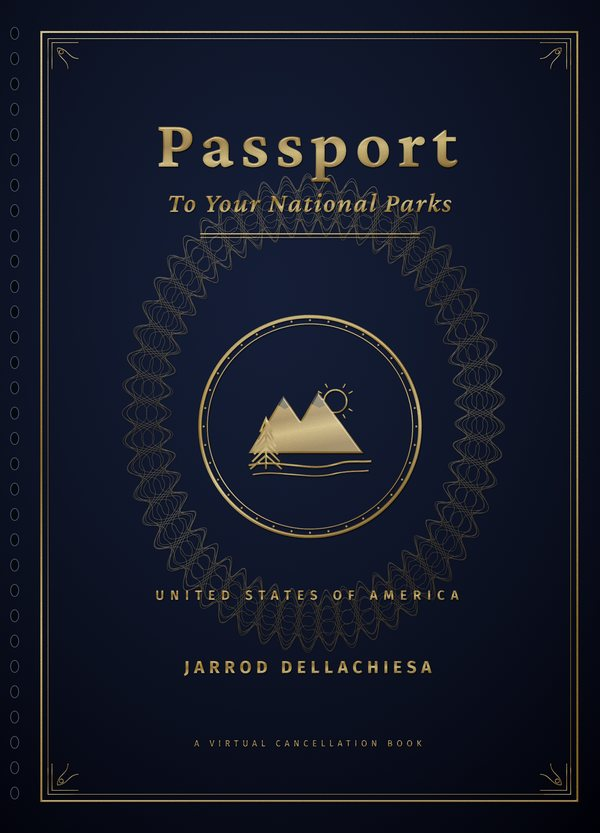
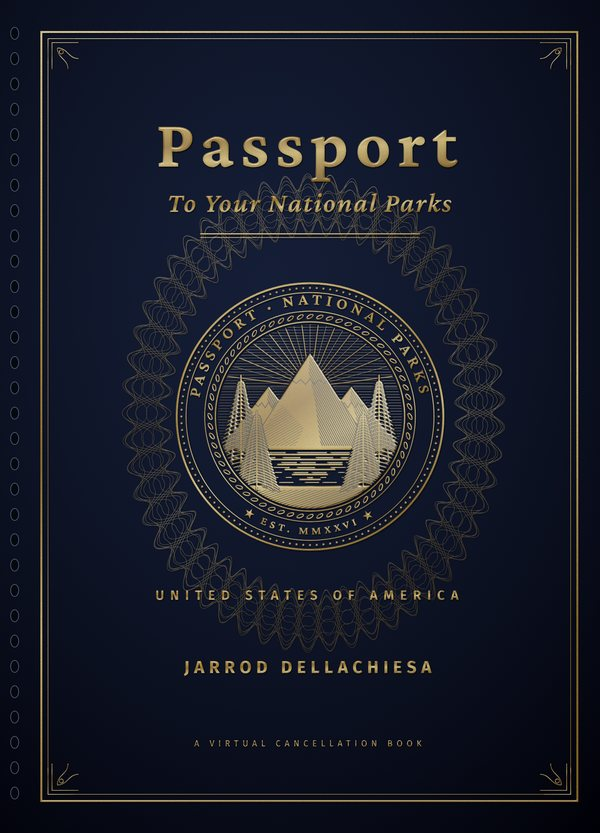
Update passport 2026-10-25 11:21

Changed region(s): [[0.27, 0.3121, 0.75, 0.6867]]

diff --git a/src/stamps/emblems.py b/src/stamps/emblems.py
@@ -1,0 +1,164 @@
+"""Original engraved-badge emblems (gold foil on navy). No NPS arrowhead / trademarked art."""
+import math
+NAVY = '#14233f'
+
+def hatch(clip_id, poly, x0, y0, x1, y1, ang, gap, sw=.9, color=NAVY):
+    """Parallel engraving lines at angle `ang` clipped to polygon."""
+    s = [f'<clipPath id="{clip_id}"><polygon points="{poly}"/></clipPath><g clip-path="url(#{clip_id})" stroke="{color}" stroke-width="{sw}" stroke-linecap="round">']
+    L = (x1 - x0) + (y1 - y0); a = math.radians(ang); dx, dy = math.cos(a), math.sin(a)
+    nx, ny = -dy, dx; cx, cy = (x0 + x1) / 2, (y0 + y1) / 2
+    k = -L
+    while k <= L:
+        px, py = cx + nx * k, cy + ny * k
+        s.append(f'<line x1="{px-dx*L:.1f}" y1="{py-dy*L:.1f}" x2="{px+dx*L:.1f}" y2="{py+dy*L:.1f}"/>')
+        k += gap
+    return ''.join(s) + '</g>'
+
+def foil_u(uid, R):
+    return (f'<linearGradient id="fu{uid}" gradientUnits="userSpaceOnUse" x1="{-R}" y1="{-R}" x2="{R*.4}" y2="{R}">'
+            '<stop offset="0" stop-color="#f6e3a1"/><stop offset=".28" stop-color="#d4ae55"/><stop offset=".5" stop-color="#a7802f"/>'
+            '<stop offset=".7" stop-color="#e9cf82"/><stop offset="1" stop-color="#9c7629"/></linearGradient>')
+
+def P(pts): return ' '.join(f'{x:.1f},{y:.1f}' for x, y in pts)
+
+def rope(R, n=72, w=7, sw=2.2):
+    s = []
+    for i in range(n):
+        a = 2 * math.pi * i / n; x, y = R * math.cos(a), R * math.sin(a)
+        s.append(f'<ellipse cx="{x:.1f}" cy="{y:.1f}" rx="{w*.95:.1f}" ry="{w*.42:.1f}" transform="rotate({math.degrees(a)+62:.1f} {x:.1f} {y:.1f})" fill="none" stroke-width="{sw}"/>')
+    return ''.join(s)
+
+def beads(R, n, r):
+    return ''.join(f'<circle cx="{R*math.cos(2*math.pi*i/n):.1f}" cy="{R*math.sin(2*math.pi*i/n):.1f}" r="{r}" stroke="none"/>' for i in range(n))
+
+def pine_eng(x, base, h, uid='t'):
+    """Engraved conifer: trunk + dense tapered, drooping branch strokes, symmetric."""
+    o = [f'<line x1="{x}" y1="{base}" x2="{x}" y2="{base-h}" stroke-width="2.2"/>']
+    n = 26
+    for i in range(n):
+        f = i / n; y = base - h * .1 - h * .88 * f; L = h * .26 * (1 - f) ** 1.05 + 3
+        for sgn in (-1, 1):
+            o.append(f'<path d="M{x},{y:.1f} Q{x+sgn*L*.55:.1f},{y+L*.12:.1f} {x+sgn*L:.1f},{y+L*.42:.1f}" fill="none" stroke-width="{1.7-f*.6:.2f}"/>')
+            for j in (1, 2):  # needles
+                px = x + sgn * L * j / 3; py = y + L * .1 * j
+                o.append(f'<line x1="{px:.1f}" y1="{py:.1f}" x2="{px+sgn*3:.1f}" y2="{py+5:.1f}" stroke-width=".8"/>')
+    body = "".join(o)
+    return (f'<g fill="none" stroke-linecap="round"><g stroke="{NAVY}" stroke-width="3.6">{body.replace("stroke-width", "data-w")}</g>{body}</g>')
+
+def sequoia(x, base, h, flip=1, uid='t'):
+    """Tall conifer silhouette with layered drooping branches + navy notch engraving."""
+    tiers = 11; pts_l, pts_r = [], []
+    for t in range(tiers + 1):
+        f = t / tiers; y = base - h * (.12 + .88 * f); w = h * .2 * (1 - f) ** .9 + 2
+        pts_l += [(x - w, y + h * .035), (x - w * .45, y)]; pts_r += [(x + w * .45, y), (x + w, y + h * .035)]
+    poly = [(x - 3, base)] + pts_l + [(x, base - h - 8)] + pts_r[::-1] + [(x + 3, base)]
+    s = f'<polygon points="{P(poly)}" stroke="none"/>'
+    s += f'<g stroke="{NAVY}" stroke-width=".8" fill="none">'
+    for t in range(1, tiers):
+        f = t / tiers; y = base - h * (.12 + .88 * f); w = h * .2 * (1 - f) ** .9
+        s += f'<path d="M{x-w*.85:.1f},{y+h*.03:.1f} Q{x:.1f},{y-h*.02:.1f} {x+w*.85:.1f},{y+h*.03:.1f}"/>'
+    # shadow hatching on the right half
+    s += '</g>' + hatch(f'th{uid}', P([(x, base - h - 8)] + pts_r[::-1] + [(x + 3, base)]), x - 60, base - h - 20, x + 60, base, 70, 2.6, .55)
+    return s
+
+def peaks(cx, base, uid, scale=1.0):
+    """Symmetric 3-peak range: lit left faces solid foil, shadow right faces navy-hatched, snow caps clean."""
+    S = scale; out = []
+    ranges = [  # (apex x offset, apex height, half width)
+        (-62, 92, 70), (62, 92, 70), (0, 142, 92)]
+    for i, (ox, ht, hw) in enumerate(ranges):
+        ax, ay = cx + ox * S, base - ht * S; lx, rx = ax - hw * S, ax + hw * S
+        out.append(f'<polygon points="{P([(lx, base), (ax, ay), (rx, base)])}" stroke="none"/>')
+        # shadow face
+        sh = [(ax, ay), (rx, base), (ax + hw * .18 * S, base), (ax + 6 * S, ay + ht * .45 * S), (ax - 2 * S, ay + ht * .22 * S)]
+        out.append(hatch(f'pk{uid}{i}', P(sh), lx, ay, rx, base, 62, 2.8 * S, 1.15))
+        # ridge cross-hatch on lit face lower part
+        lit = [(lx, base), (ax - hw * .45 * S, base - ht * .45 * S), (ax - hw * .1 * S, base - ht * .2 * S), (ax - hw * .25 * S, base)]
+        out.append(hatch(f'pl{uid}{i}', P(lit), lx, ay, rx, base, -30, 3.4 * S, .5))
+        # snow line (jagged) – navy outline under the cap
+        sn = ht * .3; pts = []
+        for k in range(9):
+            t = k / 8; x = ax - hw * (sn / ht) * S + 2 * hw * (sn / ht) * S * t
+            y = ay + sn * S + (6 if k % 2 else -3) * S * (1 - abs(t - .5))
+            pts.append((x, y))
+        out.append(f'<polyline points="{P(pts)}" fill="none" stroke="{NAVY}" stroke-width="1.2"/>')
+        out.append(f'<polyline points="{P([(lx, base), (ax, ay), (rx, base)])}" fill="none" stroke="{NAVY}" stroke-width="1.1"/>')
+    return ''.join(out)
+
+def lake(cx, y, w, rows, uid):
+    s = [f'<g stroke-width="1.6" stroke-linecap="round" fill="none">']
+    for i in range(rows):
+        yy = y + 8 + i * 7.5; ww = w * (1 - i * .07)
+        segs = 5 + i % 3; gap = ww / segs
+        for k in range(segs):
+            x0 = cx - ww / 2 + k * gap + (3 if (i + k) % 2 else 9); x1 = x0 + gap - 12 - (i % 2) * 6
+            if x1 > x0: s.append(f'<line x1="{x0:.1f}" y1="{yy:.1f}" x2="{x1:.1f}" y2="{yy:.1f}"/>')
+    # peak reflection: tapering centered lines
+    for i in range(6):
+        yy = y + 11 + i * 7.5; ww = 70 - i * 11
+        s.append(f'<line x1="{cx-ww:.1f}" y1="{yy:.1f}" x2="{cx+ww:.1f}" y2="{yy:.1f}" stroke-width="2.6"/>')
+    return ''.join(s) + '</g>'
+
+def sky(R, y_hor, uid, gap=4.2):
+    """Fine horizontal engraved sky lines + sunburst behind the central peak."""
+    s = [f'<clipPath id="sky{uid}"><circle r="{R}"/></clipPath><g clip-path="url(#sky{uid})" fill="none">']
+    for i in range(int((R + y_hor) / gap)):
+        y = -R + i * gap
+        if y < y_hor: s.append(f'<line x1="{-R}" y1="{y:.1f}" x2="{R}" y2="{y:.1f}" stroke-width=".55" opacity=".7"/>')
+    for k in range(25):
+        a = math.radians(180 + k * 7.5)
+        s.append(f'<line x1="{30*math.cos(a):.1f}" y1="{y_hor-90+30*math.sin(a):.1f}" x2="{R*1.2*math.cos(a):.1f}" y2="{y_hor-90+R*1.2*math.sin(a):.1f}" stroke-width="{1.4 if k%2 else .6}" opacity=".8"/>')
+    return ''.join(s) + '</g>'
+
+def scene(R, uid):
+    hor = 46
+    return (foil_u(uid, R) + f'<g fill="url(#fu{uid})" stroke="url(#fu{uid})">' + sky(R - 2, hor, uid)
+            + f'<clipPath id="sc{uid}"><circle r="{R-2}"/></clipPath><g clip-path="url(#sc{uid})">'
+            + peaks(0, hor, uid, 1.0)
+            + f'<rect x="{-R}" y="{hor-2}" width="{2*R}" height="6" stroke="none"/>'
+            + lake(0, hor, 2 * R, 7, uid)
+            + f'<path d="M{-R},{hor+64} C{-R*.6},{hor+52} {-R*.3},{hor+60} 0,{hor+58} C{R*.3},{hor+60} {R*.6},{hor+52} {R},{hor+64} L{R},{R} L{-R},{R} Z" stroke="none"/>'
+            + hatch(f'gr{uid}', P([(-R, hor+64), (R, hor+64), (R, R), (-R, R)]), -R, hor, R, R, -20, 3.2, .7)
+            + pine_eng(-R * .74, hor + 62, 170) + pine_eng(R * .74, hor + 62, 170)
+            + pine_eng(-R * .57, hor + 64, 118) + pine_eng(R * .57, hor + 64, 118)
+            + '</g></g>')
+
+def emblem_a(cx, cy, R=170):
+    """Circular seal: rope border, bead ring, engraved scene, banner-free."""
+    r_in = R - 34
+    return (f'<g transform="translate({cx},{cy})" fill="url(#foil)" stroke="url(#foil)" filter="url(#emboss)">'
+            f'<circle r="{R}" fill="none" stroke-width="3.2"/>' + rope(R - 12, 84, 7.2, 2) +
+            f'<circle r="{R-23}" fill="none" stroke-width="1.6"/>' + beads(R - 28.5, 96, 1.5) +
+            f'<circle r="{r_in}" fill="none" stroke-width="2.6"/>' + scene(r_in - 3, 'A') + '</g>')
+
+def emblem_b(cx, cy, R=170):
+    """Shield badge with rope edge and scene; stars in chief."""
+    w, h = R * 1.55, R * 1.95
+    def shield(sx, sy):
+        return (f'M{-sx},{-sy} L{sx},{-sy} L{sx},{sy*.15} C{sx},{sy*.65} {sx*.45},{sy*.9} 0,{sy} '
+                f'C{-sx*.45},{sy*.9} {-sx},{sy*.65} {-sx},{sy*.15} Z')
+    return (f'<g transform="translate({cx},{cy-10})" fill="url(#foil)" stroke="url(#foil)" filter="url(#emboss)">'
+            f'<path d="{shield(w/2, h/2)}" fill="none" stroke-width="3.2"/>'
+            f'<path d="{shield(w/2-9, h/2-9)}" fill="none" stroke-width="5" stroke-dasharray="2.2 3.2"/>'
+            f'<path d="{shield(w/2-17, h/2-17)}" fill="none" stroke-width="1.6"/>'
+            f'<clipPath id="shB"><path d="{shield(w/2-21, h/2-21)}"/></clipPath><g clip-path="url(#shB)" transform="translate(0,26)">'
+            + scene(R * 1.05, 'B') + '</g>'
+            + f'<line x1="{-w/2+17}" y1="{-h/2+56}" x2="{w/2-17}" y2="{-h/2+56}" stroke-width="1.6"/>'
+            f'<rect x="{-w/2+17}" y="{-h/2+17}" width="{w-34}" height="39" stroke="none"/>'
+            + ''.join(f'<path transform="translate({x},{-h/2+37}) scale(.9)" d="M0,-10 L2.9,-3.1 10,-3.1 4.3,1.2 6.5,8.1 0,3.9 -6.5,8.1 -4.3,1.2 -10,-3.1 -2.9,-3.1Z" fill="{NAVY}" stroke="none"/>' for x in (-60, -30, 0, 30, 60))
+            + '</g>')
+
+def emblem_c(cx, cy, R=170):
+    """Circular seal with lettered ring (PASSPORT · NATIONAL PARKS) and elk-free scene, star separators."""
+    r_in = R - 46
+    return (f'<g transform="translate({cx},{cy})" fill="url(#foil)" stroke="url(#foil)" filter="url(#emboss)">'
+            f'<circle r="{R}" fill="none" stroke-width="3"/>' + beads(R - 7, 120, 1.6) +
+            f'<circle r="{R-14}" fill="none" stroke-width="1.4"/>'
+            f'<path id="ringC" d="M{-(R-32)},0 A{R-32},{R-32} 0 1 1 {R-32},0" fill="none" stroke="none"/>'
+            f'<path id="ringC2" d="M{-(R-23)},0 A{R-23},{R-23} 0 0 0 {R-23},0" fill="none" stroke="none"/>'
+            f'<text font-family="\'Crimson Pro\',serif" font-weight="700" font-size="25" letter-spacing="6" stroke="none">'
+            f'<textPath href="#ringC" startOffset="50%" text-anchor="middle">PASSPORT · NATIONAL PARKS</textPath></text>'
+            f'<text font-family="\'Crimson Pro\',serif" font-weight="700" font-size="17" letter-spacing="5" stroke="none">'
+            f'<textPath href="#ringC2" startOffset="50%" text-anchor="middle">★ EST. MMXXVI ★</textPath></text>'
+            f'<circle r="{r_in+4}" fill="none" stroke-width="1.4"/>' + rope(r_in - 4, 64, 5.5, 1.6) +
+            f'<circle r="{r_in-12}" fill="none" stroke-width="2"/>' + scene(r_in - 14, 'C') + '</g>')

diff --git a/src/stamps/passport.py b/src/stamps/passport.py
@@ -5,6 +5,7 @@ Usage: python3 passport.py [--pages] [--cover] [--back] [--page=REGIONKEY]   (no
 Per region: an intro page (<rk>_intro: color band, region map with park dots, numbered park list)
 followed by cancellation pages (<rk>, <rk>_2, ...; 6 spaces each, blank when no visits)."""
 import html, json, math, os, subprocess, sys, zlib, datetime, random
+sys.path.insert(0, os.path.dirname(os.path.abspath(__file__))); from emblems import emblem_c
 HERE = os.path.dirname(os.path.abspath(__file__)); BUILD = os.path.join(HERE, 'build')
 W, H = 900, 1250; PER = 6; SCALE = 2
 esc = lambda s: html.escape(str(s), quote=True)
@@ -364,7 +365,7 @@ def cover():
          f'<text x="465" y="250" font-family="{SERIF}" font-weight="700" font-size="104" letter-spacing="10">Passport</text>'
          f'<text x="465" y="318" font-family="{SERIF}" font-weight="600" font-style="italic" font-size="42" letter-spacing="2">To Your National Parks</text>'
          f'<rect x="300" y="350" width="330" height="2"/><rect x="300" y="356" width="330" height="1"/></g>',
-         emblem(465, 640, 165),
+         emblem_c(465, 625, 200),
          f'<g filter="url(#emboss)" fill="url(#foil)" text-anchor="middle" font-family="{SANS}">'
          f'<text x="465" y="900" font-size="20" letter-spacing="9" font-weight="600">UNITED STATES OF AMERICA</text>'
          f'<text x="465" y="1010" font-size="26" letter-spacing="7" font-weight="700">JARROD DELLACHIESA</text>'
